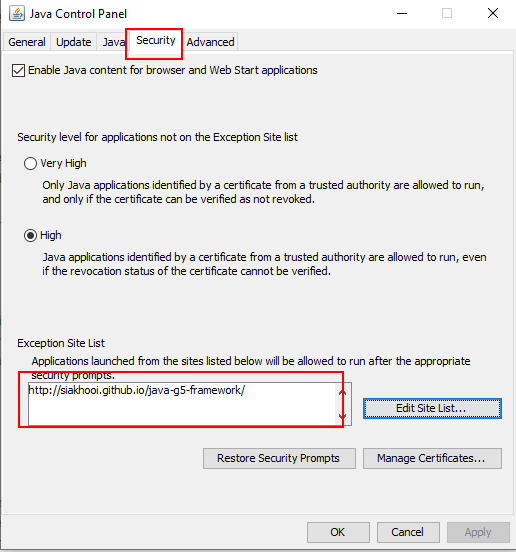
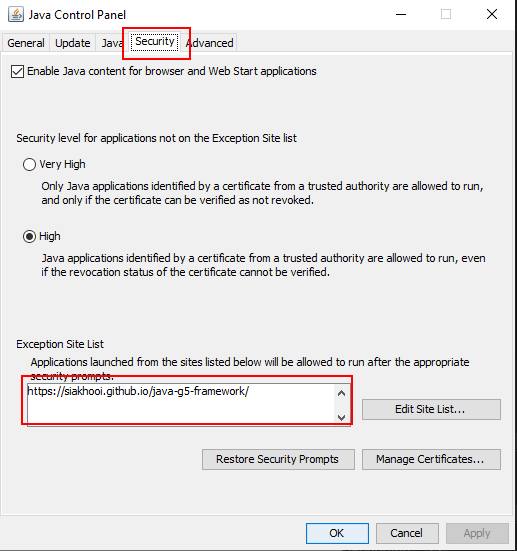
update png (#4)

Changed region(s): [[0.0, 0.0, 1.0, 1.0], [0.9302, 0.0, 0.9612, 0.0309]]

diff --git a/docs/20-prototypes.md b/docs/20-prototypes.md
@@ -7,13 +7,13 @@
 
 ## List of Prototypes
 
-| Prototype                               | Description                                                                                                  |
-| --------------------------------------- | ------------------------------------------------------------------------------------------------------------ |
-| [Personal Finance Assistant](/pfa.jnlp) | application to track personal finance, with reports such personal Balance sheets & Profit & Lost Statements. |
-| [Utilities](/ut.jnlp)                   | Desktop Utilities software that run at the system tray to do file operations.                                |
-| [BizSuite](/bs.jnlp)                    | Business application - Sales and Purchases                                                                   |
-| [Inventory Suite](/is.jnlp)             | Business application - Inventory management                                                                  |
-| [Demo Toolkit](/demo.jnlp)              | Demo of all forms available in G5 Java Application Framework                                                 |
+| Prototype                               | Description                                                                                                         |
+| --------------------------------------- | ------------------------------------------------------------------------------------------------------------------- |
+| [Personal Finance Assistant](/pfa.jnlp) | application to track personal finance, with reports such personal Balance sheets & Profit & Lost Statements.        |
+| [Utilities](/ut.jnlp)                   | Desktop Utilities software that run at the system tray to do file operations. (See [screen shot](#utilities) below) |
+| [BizSuite](/bs.jnlp)                    | Business application - Sales and Purchases                                                                          |
+| [Inventory Suite](/is.jnlp)             | Business application - Inventory management                                                                         |
+| [Demo Toolkit](/demo.jnlp)              | Demo of all forms available in G5 Java Application Framework                                                        |
 
 ## How to Run Demo
 
@@ -36,3 +36,7 @@
   - Java Web Start will download all required libraries and start the program.
 
 ![java-security-warning](java-security-warning.png)
+
+## Utilities {#utilities}
+
+![ut-systray.png](ut-systray.png)
